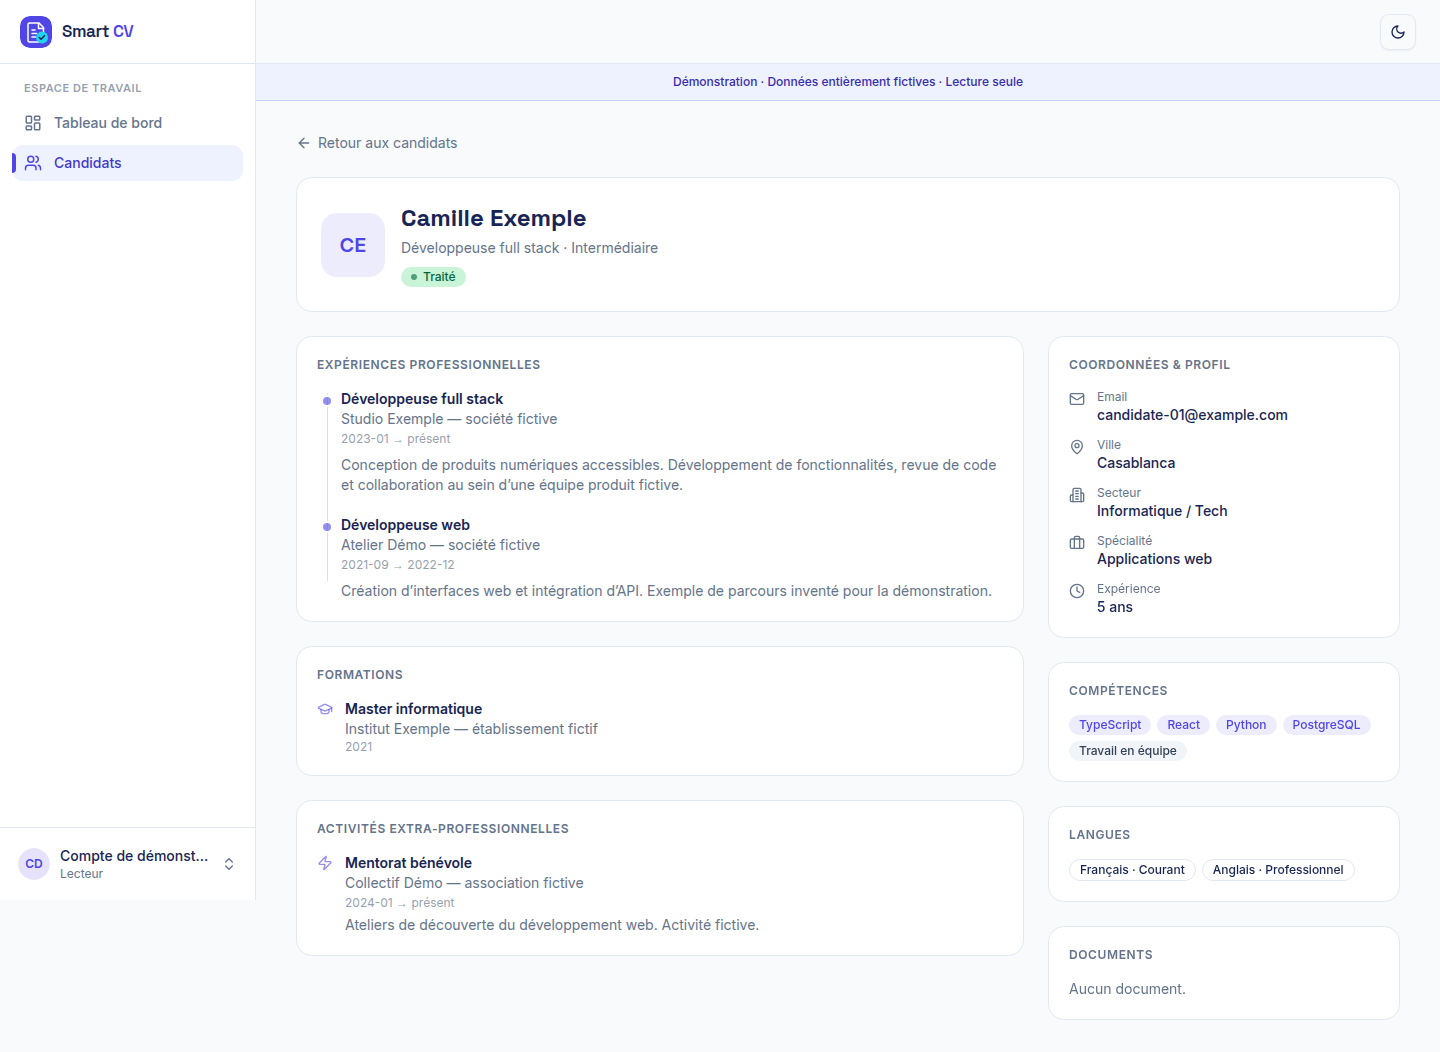
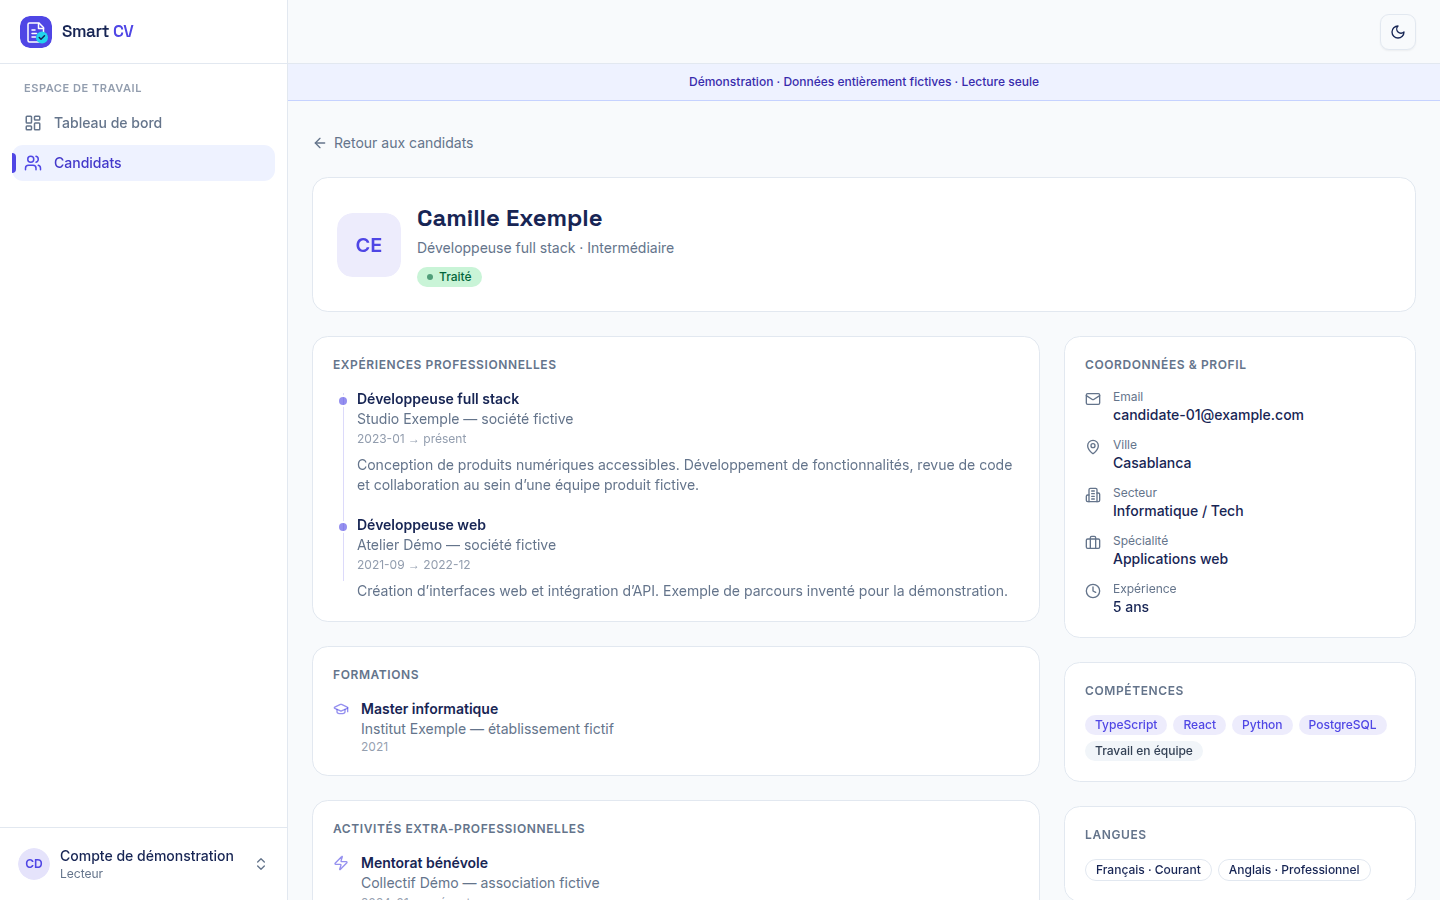
fix(web): adapt sidebar to viewport and paginate candidates by 15

diff --git a/apps/web/src/components/app-shell/app-shell.tsx b/apps/web/src/components/app-shell/app-shell.tsx
@@ -27,32 +27,34 @@ export function AppShell({ children }: { children: React.ReactNode }) {
   const showNew = !!user && canWrite(user.role);
 
   return (
-    <div className="min-h-svh bg-background">
+    <div className="min-h-svh bg-background lg:grid lg:grid-cols-[minmax(16rem,20%)_minmax(0,1fr)]">
       {/* Sidebar (bureau) */}
-      <aside className="fixed inset-y-0 left-0 z-30 hidden w-64 flex-col border-r border-sidebar-border bg-sidebar lg:flex">
-        <div className="flex h-16 items-center border-b border-sidebar-border px-5">
-          <Link
-            href="/dashboard"
-            aria-label="Aller au tableau de bord"
-            className="rounded-md focus-visible:outline-none focus-visible:ring-2 focus-visible:ring-ring"
-          >
-            <BrandWordmark />
-          </Link>
-        </div>
-        <div className="flex-1 overflow-y-auto px-3 py-4">
-          <p className="px-3 pb-2 text-[11px] font-semibold uppercase tracking-wider text-muted-foreground/70">
-            Espace de travail
-          </p>
-          <SidebarNav />
-        </div>
-        <div className="border-t border-sidebar-border p-3">
-          <UserMenu />
+      <aside className="hidden min-w-0 border-r border-sidebar-border bg-sidebar lg:block">
+        <div className="sticky top-0 flex h-dvh flex-col">
+          <div className="flex h-16 shrink-0 items-center border-b border-sidebar-border px-5">
+            <Link
+              href="/dashboard"
+              aria-label="Aller au tableau de bord"
+              className="rounded-md focus-visible:outline-none focus-visible:ring-2 focus-visible:ring-ring"
+            >
+              <BrandWordmark />
+            </Link>
+          </div>
+          <div className="min-h-0 flex-1 overflow-y-auto px-3 py-4">
+            <p className="px-3 pb-2 text-[11px] font-semibold uppercase tracking-wider text-muted-foreground/70">
+              Espace de travail
+            </p>
+            <SidebarNav />
+          </div>
+          <div className="shrink-0 border-t border-sidebar-border p-3">
+            <UserMenu />
+          </div>
         </div>
       </aside>
 
       {/* Colonne principale */}
-      <div className="flex min-h-svh flex-col lg:pl-64">
-        <header className="sticky top-0 z-20 flex h-16 items-center gap-3 border-b border-border bg-background/85 px-4 backdrop-blur supports-[backdrop-filter]:bg-background/70 md:px-6">
+      <div className="flex min-h-svh min-w-0 flex-col">
+        <header className="sticky top-0 z-20 flex h-16 shrink-0 items-center gap-3 border-b border-border bg-background/85 px-4 backdrop-blur supports-[backdrop-filter]:bg-background/70 md:px-6">
           {/* Menu mobile */}
           <Sheet open={mobileOpen} onOpenChange={setMobileOpen}>
             <SheetTrigger asChild>
@@ -65,8 +67,8 @@ export function AppShell({ children }: { children: React.ReactNode }) {
                 <MenuIcon />
               </Button>
             </SheetTrigger>
-            <SheetContent side="left" className="w-72 p-0">
-              <SheetHeader className="h-16 justify-center border-b border-sidebar-border px-5">
+            <SheetContent side="left" className="h-dvh w-72 max-w-full gap-0 p-0">
+              <SheetHeader className="h-16 shrink-0 justify-center border-b border-sidebar-border px-5">
                 <SheetTitle className="p-0">
                   <Link
                     href="/dashboard"
@@ -77,11 +79,11 @@ export function AppShell({ children }: { children: React.ReactNode }) {
                   </Link>
                 </SheetTitle>
               </SheetHeader>
-              <div className="flex flex-1 flex-col justify-between overflow-y-auto p-3">
+              <div className="min-h-0 flex-1 overflow-y-auto p-3">
                 <SidebarNav onNavigate={() => setMobileOpen(false)} />
-                <div className="border-t border-sidebar-border pt-3">
-                  <UserMenu />
-                </div>
+              </div>
+              <div className="shrink-0 border-t border-sidebar-border p-3">
+                <UserMenu />
               </div>
             </SheetContent>
           </Sheet>
@@ -114,7 +116,7 @@ export function AppShell({ children }: { children: React.ReactNode }) {
               Démonstration · Données entièrement fictives · Lecture seule
             </div>
           )}
-          <div className="mx-auto max-w-6xl px-4 py-6 md:px-6 md:py-8">
+          <div className="w-full px-4 py-6 md:px-6 md:py-8">
             {children}
           </div>
         </main>

diff --git a/apps/web/src/app/(app)/candidates/page.test.tsx b/apps/web/src/app/(app)/candidates/page.test.tsx
@@ -1,0 +1,86 @@
+import { beforeEach, describe, expect, it, vi } from "vitest";
+import { render, screen } from "@testing-library/react";
+import userEvent from "@testing-library/user-event";
+
+import { searchCandidates, type Candidate } from "@/lib/api";
+import CandidatesPage from "./page";
+
+vi.mock("@/app/providers", () => {
+  const user = { id: "demo-reader", role: "lecteur" };
+  return { useRequireAuth: () => ({ user }) };
+});
+vi.mock("@/lib/api", () => ({ searchCandidates: vi.fn() }));
+
+const candidates: Candidate[] = Array.from({ length: 31 }, (_, index) => ({
+  id: `fictional-${index + 1}`,
+  prenom: "Profil",
+  nom: `Fictif ${index + 1}`,
+  email: null,
+  telephone: null,
+  ville: null,
+  poste_actuel: null,
+  secteur: null,
+  specialite: null,
+  annees_experience: 0,
+  experience_texte: null,
+  seniorite: null,
+  status: "success",
+  source: "local",
+  created_at: "2026-09-01T00:00:00Z",
+  updated_at: "2026-09-01T00:00:00Z",
+}));
+
+beforeEach(() => {
+  vi.mocked(searchCandidates).mockReset();
+  vi.mocked(searchCandidates).mockImplementation(async ({ name, limit = 15, offset = 0 }) => {
+    const filtered = candidates.filter((candidate) =>
+      `${candidate.prenom} ${candidate.nom}`.includes(name ?? ""),
+    );
+    return { total: filtered.length, limit, offset, items: filtered.slice(offset, offset + limit) };
+  });
+});
+
+describe("Pagination des candidats", () => {
+  it("affiche 15 profils, navigue sans doublons et désactive les boutons aux extrémités", async () => {
+    const user = userEvent.setup();
+    render(<CandidatesPage />);
+    await screen.findByText("1–15 sur 31 candidats");
+    expect(screen.getAllByRole("listitem")).toHaveLength(15);
+    expect(screen.getByRole("button", { name: /Précédent/ })).toBeDisabled();
+
+    await user.click(screen.getByRole("button", { name: /Suivant/ }));
+    await screen.findByText("16–30 sur 31 candidats");
+    expect(screen.queryByText("Profil Fictif 15")).not.toBeInTheDocument();
+    expect(screen.getByText("Profil Fictif 16")).toBeInTheDocument();
+    expect(screen.getAllByRole("listitem")).toHaveLength(15);
+
+    await user.click(screen.getByRole("button", { name: /Suivant/ }));
+    await screen.findByText("Page 3 sur 3");
+    expect(screen.getAllByRole("listitem")).toHaveLength(1);
+    expect(screen.getByText("Profil Fictif 31")).toBeInTheDocument();
+    expect(screen.getByRole("button", { name: /Suivant/ })).toBeDisabled();
+
+    await user.click(screen.getByRole("button", { name: /Précédent/ }));
+    await screen.findByText("16–30 sur 31 candidats");
+    expect(searchCandidates).toHaveBeenLastCalledWith(expect.objectContaining({ limit: 15, offset: 15 }));
+  });
+
+  it("revient à la première page après une recherche et gère les résultats vides", async () => {
+    const user = userEvent.setup();
+    render(<CandidatesPage />);
+    await screen.findByText("Page 1 sur 3");
+    await user.click(screen.getByRole("button", { name: /Suivant/ }));
+    await screen.findByText("Page 2 sur 3");
+
+    await user.type(screen.getByLabelText("Nom du candidat"), "Fictif 31");
+    await user.click(screen.getByRole("button", { name: "Rechercher" }));
+    await screen.findByText("1–1 sur 1 candidat");
+    expect(searchCandidates).toHaveBeenLastCalledWith(expect.objectContaining({ limit: 15, offset: 0, name: "Fictif 31" }));
+    expect(screen.queryByRole("navigation", { name: "Pagination des candidats" })).not.toBeInTheDocument();
+
+    await user.type(screen.getByLabelText("Nom du candidat"), " absent");
+    await user.click(screen.getByRole("button", { name: "Rechercher" }));
+    await screen.findByText("Aucun résultat");
+    expect(screen.queryByRole("listitem")).not.toBeInTheDocument();
+  });
+});

diff --git a/apps/web/src/app/(app)/candidates/page.tsx b/apps/web/src/app/(app)/candidates/page.tsx
@@ -24,7 +24,7 @@ import { Skeleton } from "@/components/ui/skeleton";
 import { StatusBadge } from "@/components/status-badge";
 import { cn } from "@/lib/utils";
 
-const LIMIT = 10;
+const LIMIT = 15;
 const ALL_SENTINEL = "__all__";
 
 function candidateName(c: Candidate): string {
@@ -273,11 +273,14 @@ export default function CandidatesPage() {
       {/* Résultats */}
       {data && !loading && (
         <>
-          <p className="text-sm text-muted-foreground">
-            {total === 0
-              ? "Aucun résultat"
-              : `${total} candidat${total > 1 ? "s" : ""}`}
-          </p>
+          <div className="flex flex-wrap items-center justify-between gap-2 text-sm text-muted-foreground" role="status">
+            <p>
+              {total === 0
+                ? "Aucun résultat"
+                : `${offset + 1}–${Math.min(offset + data.items.length, total)} sur ${total} candidat${total > 1 ? "s" : ""}`}
+            </p>
+            <p>{LIMIT} candidats par page</p>
+          </div>
 
           {data.items.length > 0 ? (
             <ul className="space-y-3">
@@ -299,7 +302,7 @@ export default function CandidatesPage() {
 
           {/* Pagination */}
           {total > LIMIT && (
-            <div className="flex items-center justify-between">
+            <nav aria-label="Pagination des candidats" className="flex flex-wrap items-center justify-between gap-3">
               <Button
                 type="button"
                 variant="outline"
@@ -310,7 +313,7 @@ export default function CandidatesPage() {
                 ← Précédent
               </Button>
               <span className="text-xs text-muted-foreground">
-                {total === 0 ? 0 : offset + 1}–{Math.min(offset + LIMIT, total)} sur {total}
+                Page {Math.floor(offset / LIMIT) + 1} sur {Math.ceil(total / LIMIT)}
               </span>
               <Button
                 type="button"
@@ -321,7 +324,7 @@ export default function CandidatesPage() {
               >
                 Suivant →
               </Button>
-            </div>
+            </nav>
           )}
         </>
       )}
